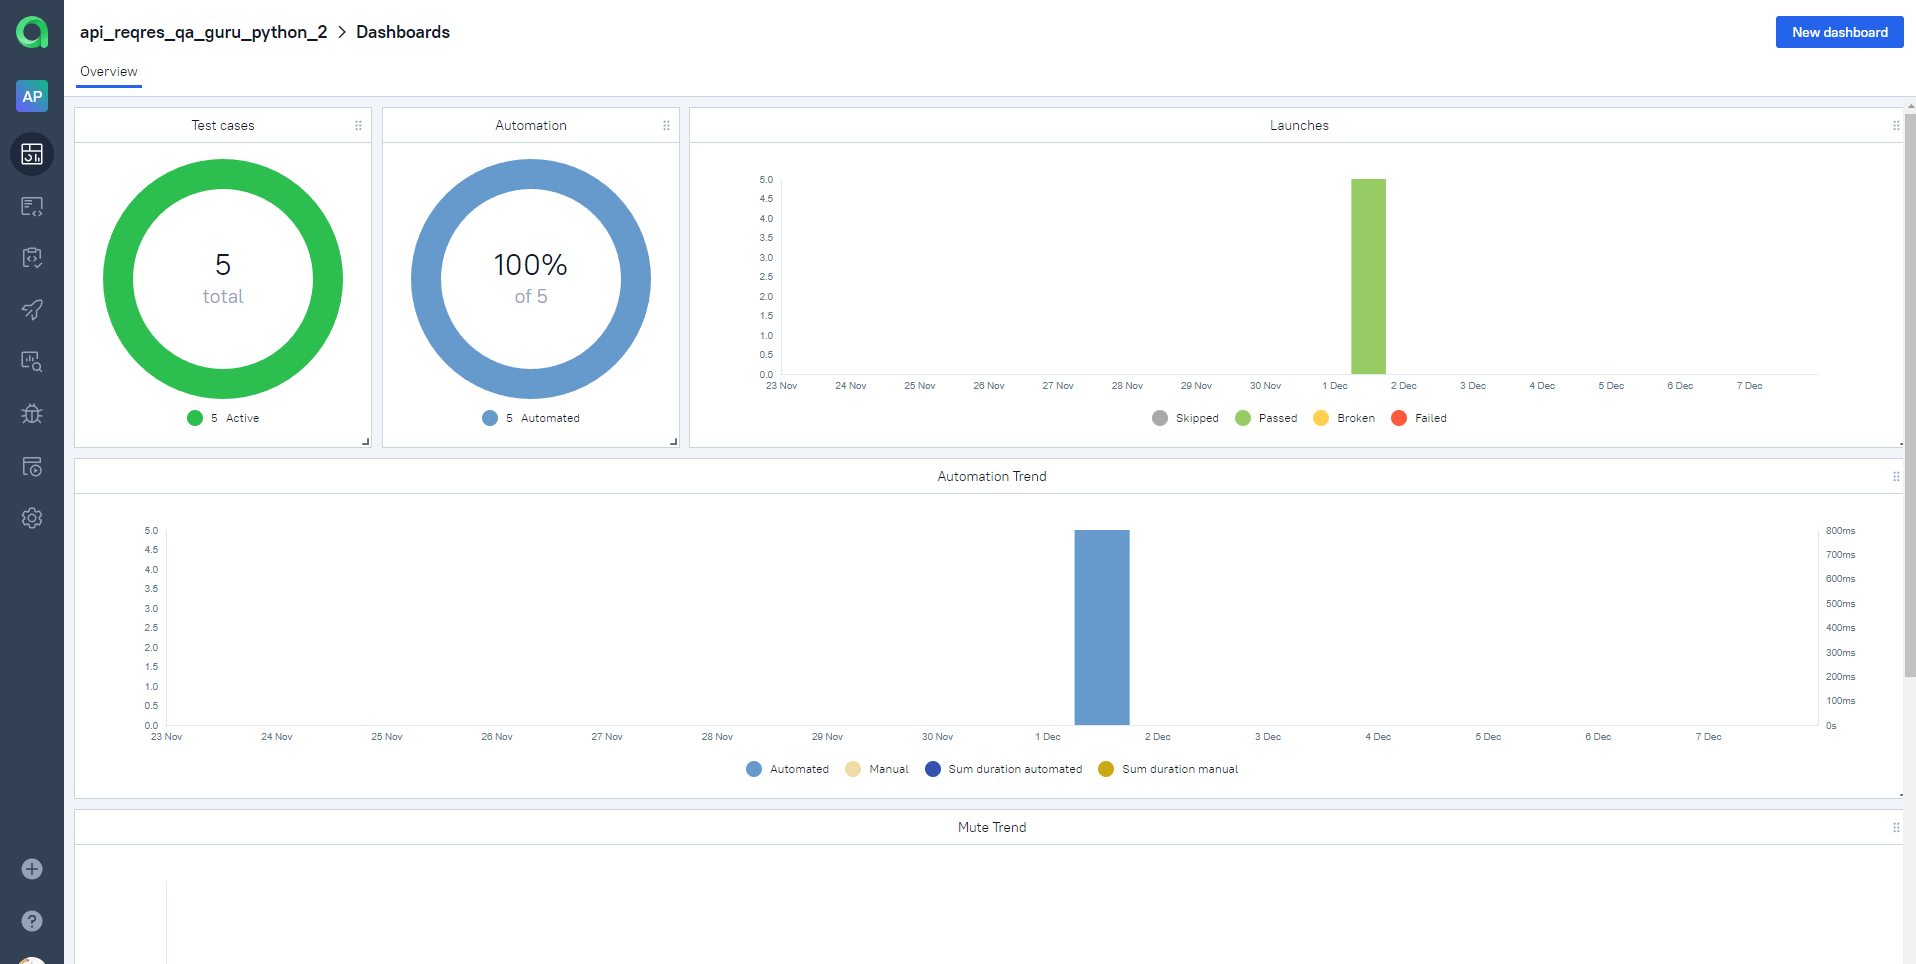
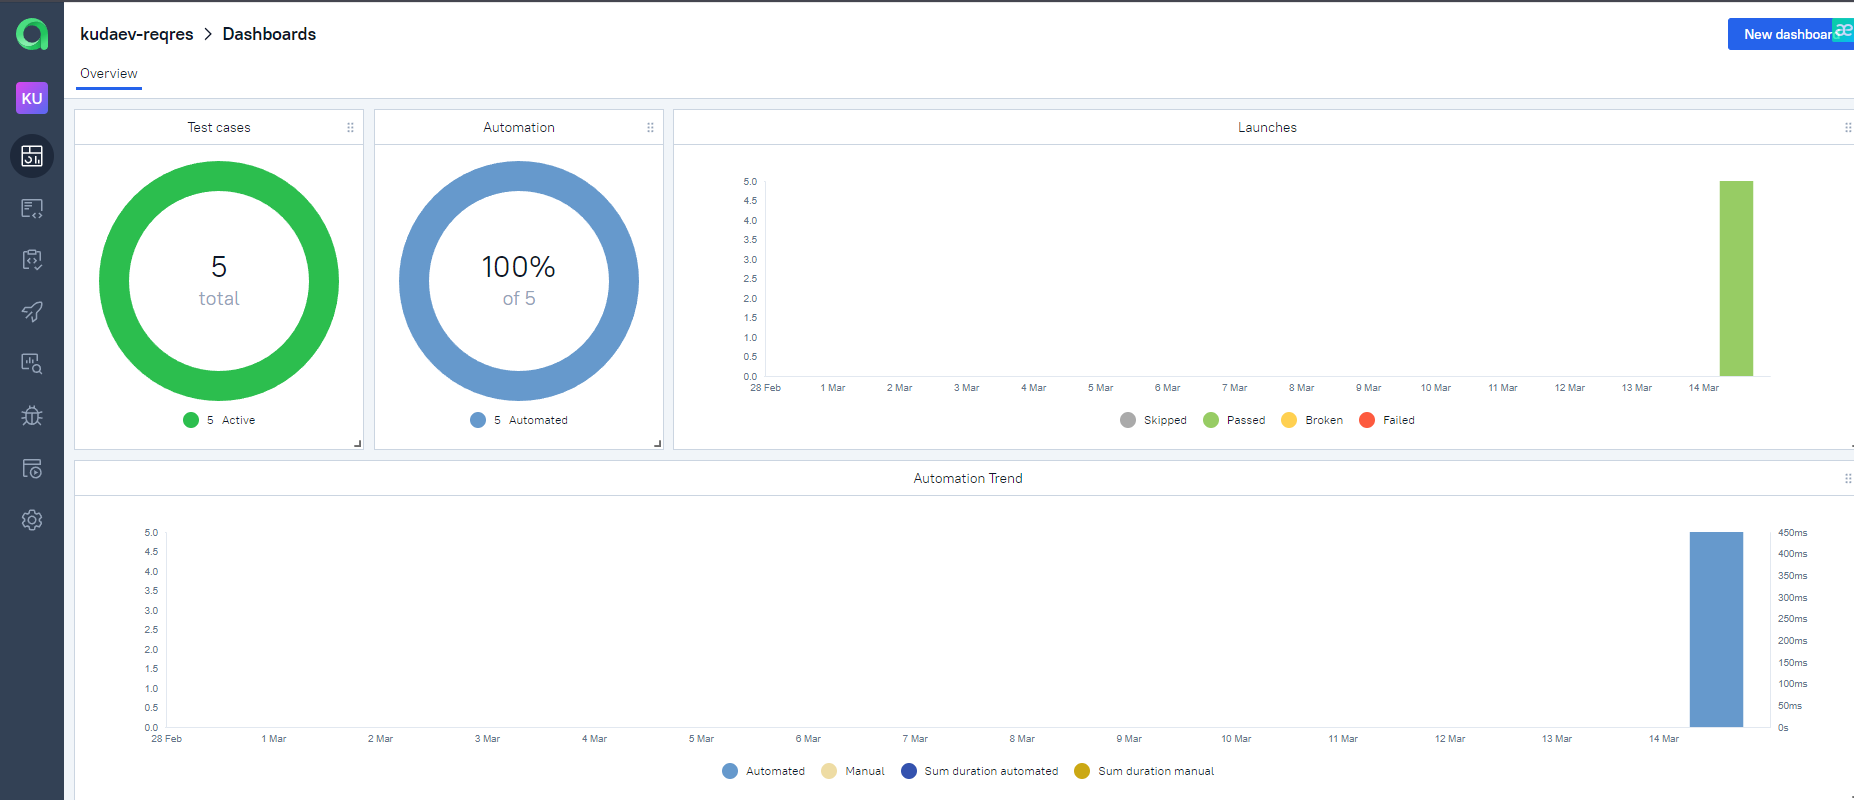
feat: last version of api projetc

diff --git a/README.md b/README.md
@@ -20,21 +20,21 @@
 
 <!-- Тест кейсы -->
 
-### Что проверяем
-* GET single user
-* POST create user
-* PUT user
-* DELETE user
-* POST register user
+### Что проверяют тесты
+![This is an image](images/screenshots/test_cases.png)
 
+В проекте используется встроенный logger - logging:
+![This is an image](images/screenshots/logger.png)
 
 <!-- Jenkins -->
 
 ### <img width="3%" title="Jenkins" src="images/logo_stacks/jenkins.png"> Запуск проекта в Jenkins
-### [Job](https://jenkins.autotests.cloud/job/api_reqres_qa_guru_python_2/)
+### [Job](https://jenkins.autotests.cloud/job/kudaev-reqres-in/)
 ##### При нажатии на "Собрать сейчас" начнется сборка тестов и их прохождение на сервере jenkins.
 ![This is an image](images/screenshots/jenkins.png)
 
+Также мы можем посмотреть выполнение тестов в консоли перейдя во вкладку "Вывод консоли" у определенного билда
+![This is an image](images/screenshots/jenkins_console.png)
 
 <!-- Allure report -->
 
@@ -52,7 +52,7 @@
 <!-- Allure TestOps -->
 
 ### <img width="3%" title="Allure TestOps" src="images/logo_stacks/allure_testops.png"> Интеграция с Allure TestOps
-### [Dashboard](https://allure.autotests.cloud/project/1719/dashboards)
+### [Dashboard](https://allure.autotests.cloud/project/2025/dashboards)
 ##### Так же вся отчетность сохраняется в Allure TestOps, где строятся аналогичные графики.
 ![This is an image](images/screenshots/allure_testops_dashboard.png)
 
@@ -63,6 +63,9 @@
 - Добавлять ручные тесты и т.д
 
 ![This is an image](images/screenshots/allure_testops_suites.png)
+
+Во вкладке Launches мы можем видить тестовые прогоны:
+![This is an image](images/screenshots/allure_testops_launcher.png)
 
 
 <!-- Jira -->
